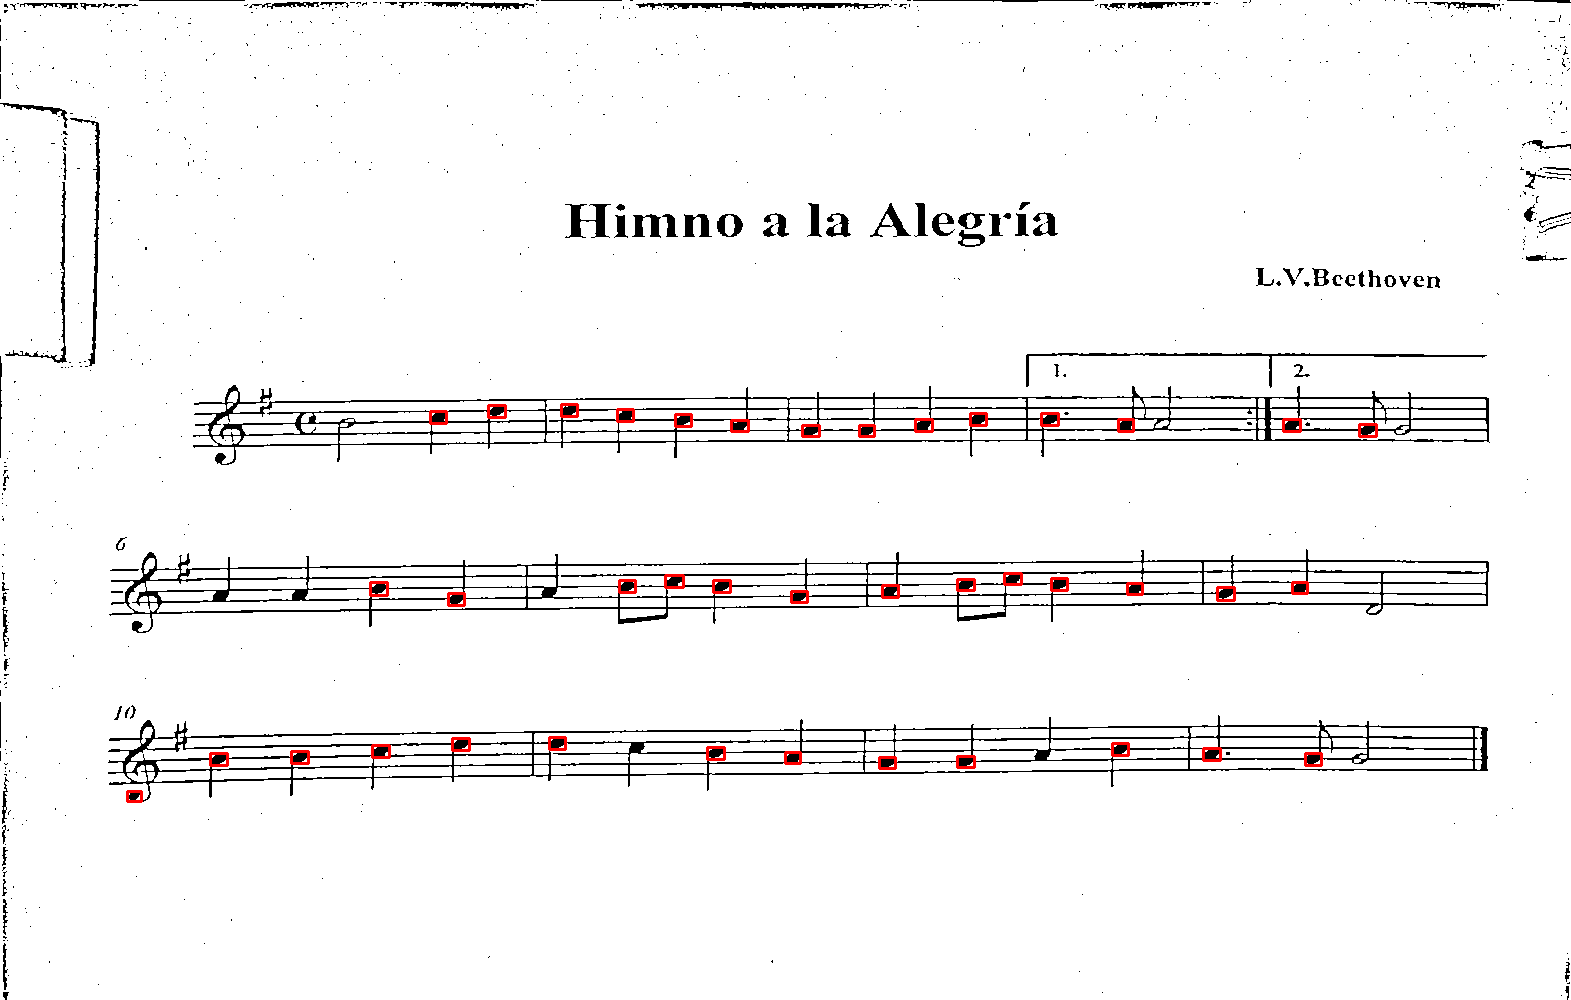
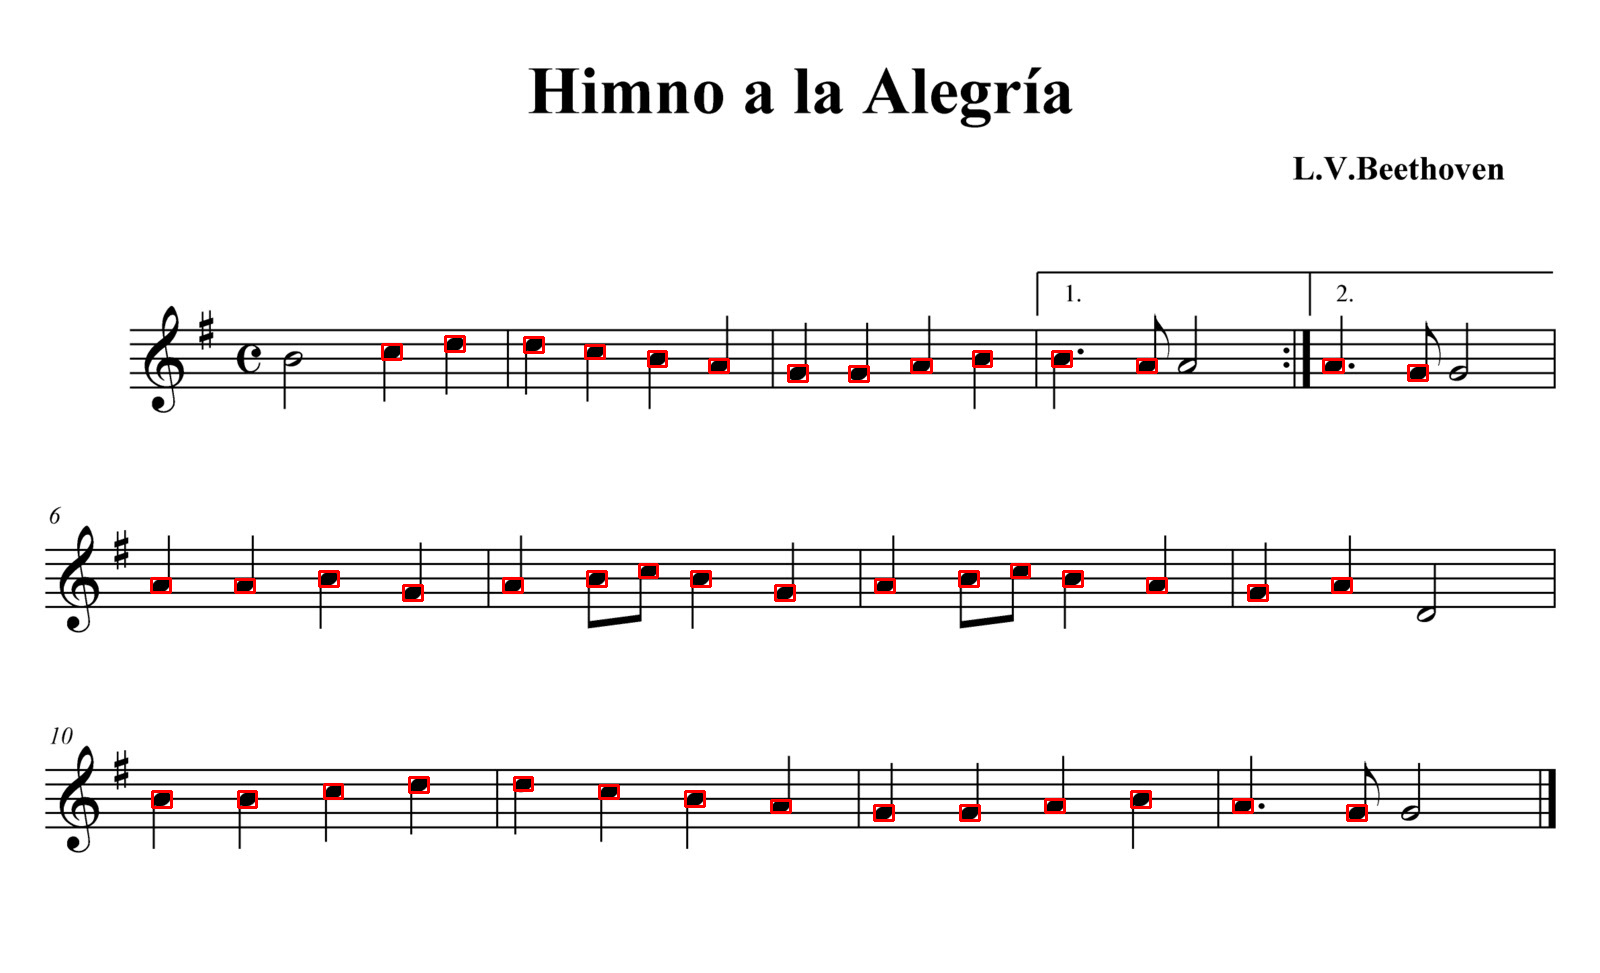
update

diff --git a/src/path_calculator.py b/src/path_calculator.py
@@ -4,7 +4,7 @@ from movements import Movement_chain
 from arduino_comunication import ArduinoComunication
 
 if __name__ == "__main__":
-    img_path = "sheets/himne_alegria_bin.png"
+    img_path = "sheets/himne_alegria.png"
     partiture = analyze_sheet(img_path)
 
     kb = Keyboard(partiture)
@@ -12,8 +12,8 @@ if __name__ == "__main__":
 
     moves = Movement_chain(movements)
 
-    arduino = ArduinoComunication("/dev/ttyUSB0", 9600)
+    #arduino = ArduinoComunication("/dev/ttyUSB0", 9600)
 
-    arduino.send_full_data(moves.data)
+    #arduino.send_full_data(moves.data)
 
     print("Done")

diff --git a/src/movements.py b/src/movements.py
@@ -148,9 +148,6 @@ class Movement_chain:
             data.append(instr)
         return data
 
-    def prepare_send_full_data(self):
-        return "".join(self.data)
-
     def print_partiture_movement(self):
         n_left = 0
         n_right = 0

diff --git a/src/metallophone.py b/src/metallophone.py
@@ -47,6 +47,8 @@ class Keyboard:
         mid = len(notes)//2
         middle_note = notes[mid]
 
+        print("Middle note: ", middle_note.note)
+
         return self.get_note_position(middle_note.note)
 
     def calculate_weights_left(self):
